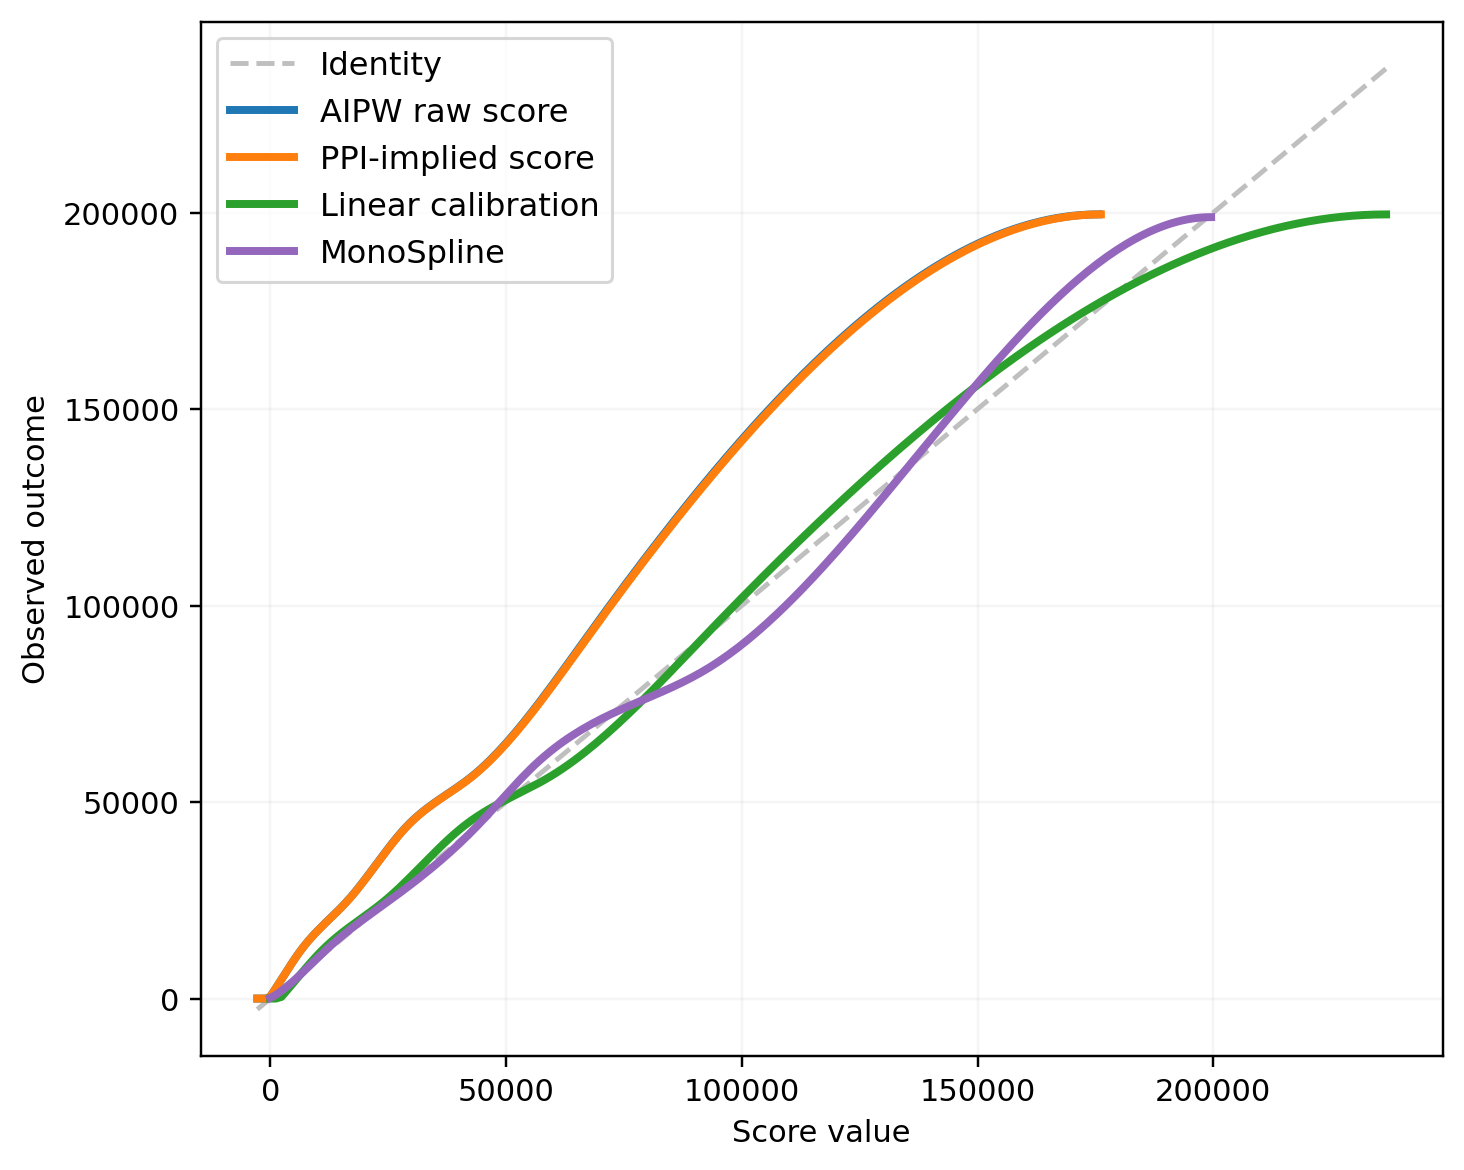
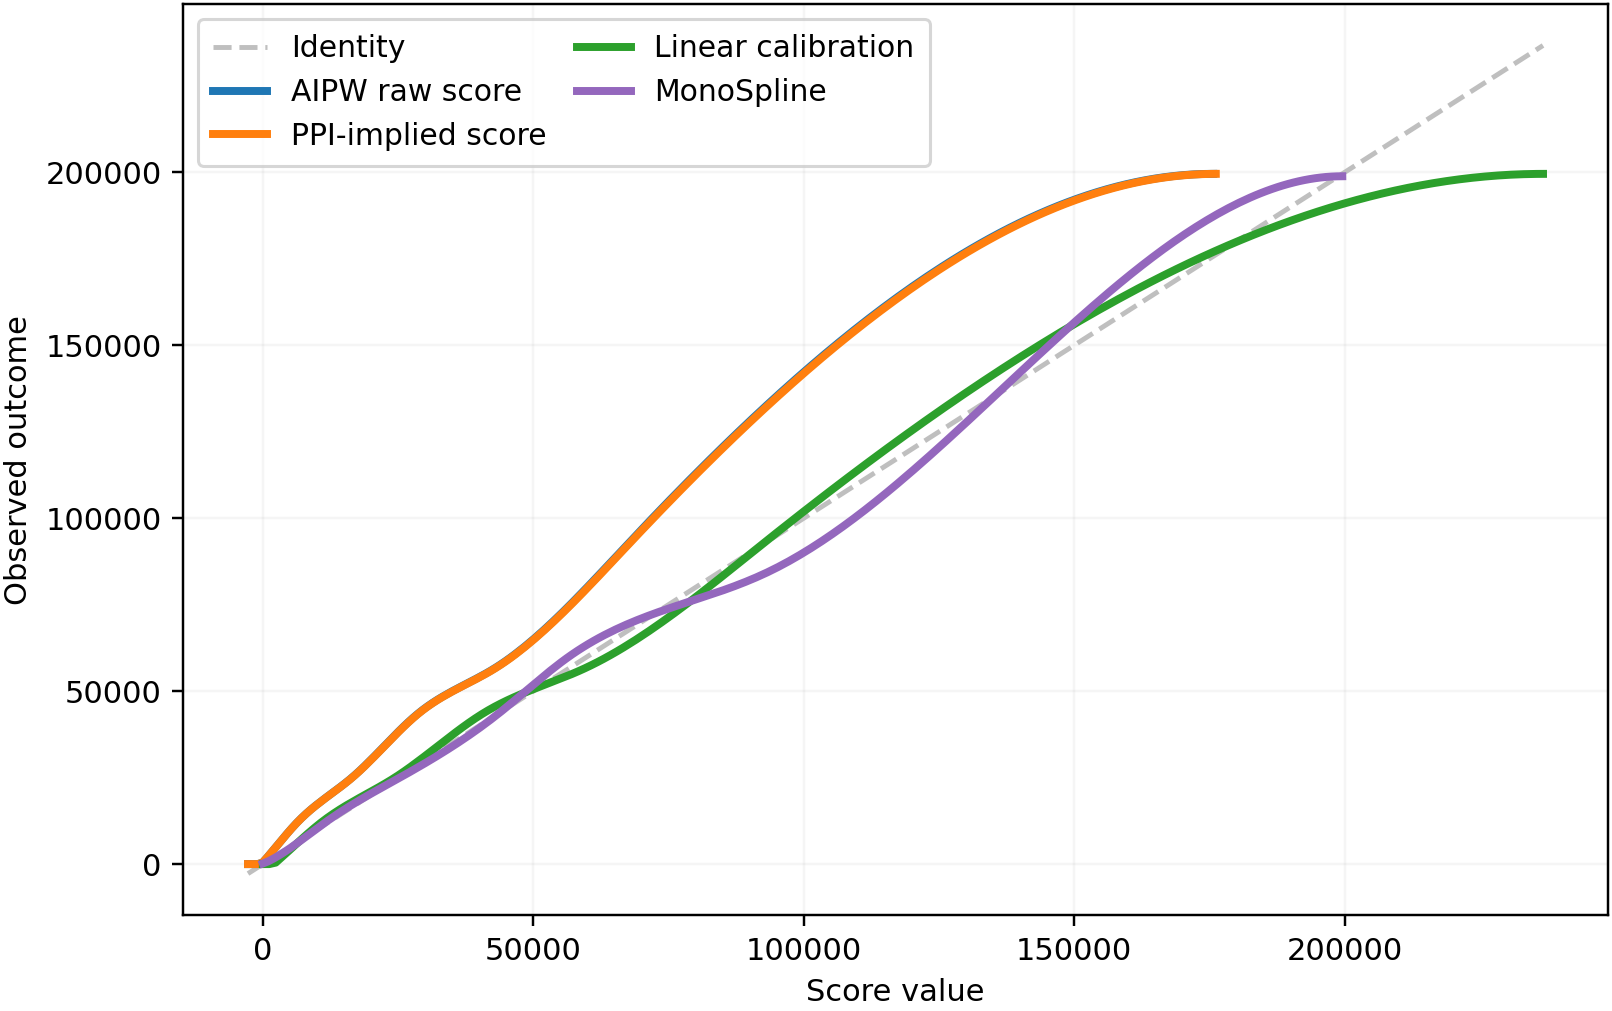
Improve case study plot readability

diff --git a/docs/site.css b/docs/site.css
@@ -472,7 +472,7 @@ pre {
 
 .case-study-figure {
   margin: 18px 0 0;
-  padding: 14px;
+  padding: 10px 10px 12px;
   border-radius: 20px;
   border: 1px solid var(--line);
   background: rgba(255, 255, 255, 0.74);
@@ -487,11 +487,11 @@ pre {
 
 .case-study-figure figcaption {
   margin: 10px auto 0;
-  max-width: 34ch;
+  max-width: 28ch;
   color: var(--muted);
-  font-size: 0.95rem;
-  line-height: 1.6;
-  text-align: left;
+  font-size: 0.92rem;
+  line-height: 1.55;
+  text-align: center;
 }
 
 .method-tabs,

diff --git a/scripts/generate_calibration_workflow_artifacts.py b/scripts/generate_calibration_workflow_artifacts.py
@@ -123,7 +123,7 @@ def save_case_study_figure(spec: CaseStudySpec) -> tuple[Path, Path]:
         (spec.smooth_label, comparison_diagnostics_for_scores(y_labeled, smooth_scores), "#9467bd"),
     ]
 
-    fig, ax = plt.subplots(1, 1, figsize=(6.8, 5.6))
+    fig, ax = plt.subplots(1, 1, figsize=(7.4, 4.9))
     all_grid = np.concatenate([curve.per_output[0].grid_scores for _, curve, _ in curves])
     all_fit = np.concatenate([curve.per_output[0].fitted_curve for _, curve, _ in curves])
     lo = float(min(np.min(all_grid), np.min(all_fit)))
@@ -135,16 +135,24 @@ def save_case_study_figure(spec: CaseStudySpec) -> tuple[Path, Path]:
     ax.set_xlabel("Score value")
     ax.set_ylabel("Observed outcome")
     ax.grid(alpha=0.12)
-    ax.legend(frameon=True, fontsize=10.5, loc="upper left")
+    ax.legend(
+        frameon=True,
+        fontsize=9.8,
+        loc="upper left",
+        ncol=2,
+        columnspacing=1.0,
+        handlelength=1.8,
+        borderpad=0.5,
+    )
 
     # The webpage already supplies the benchmark title and explanation, so let
     # the exported image spend its area on the plot itself.
-    fig.subplots_adjust(left=0.15, right=0.98, top=0.98, bottom=0.14)
+    fig.subplots_adjust(left=0.11, right=0.985, top=0.985, bottom=0.14)
 
     docs_png = DOCS_ASSETS / f"{spec.docs_stem}.png"
     out_pdf = OUTPUT_DIR / f"{spec.docs_stem}.pdf"
-    fig.savefig(docs_png, dpi=220, bbox_inches="tight")
-    fig.savefig(out_pdf, bbox_inches="tight")
+    fig.savefig(docs_png, dpi=220, bbox_inches="tight", pad_inches=0.02)
+    fig.savefig(out_pdf, bbox_inches="tight", pad_inches=0.02)
     plt.close(fig)
     return docs_png, out_pdf
 
